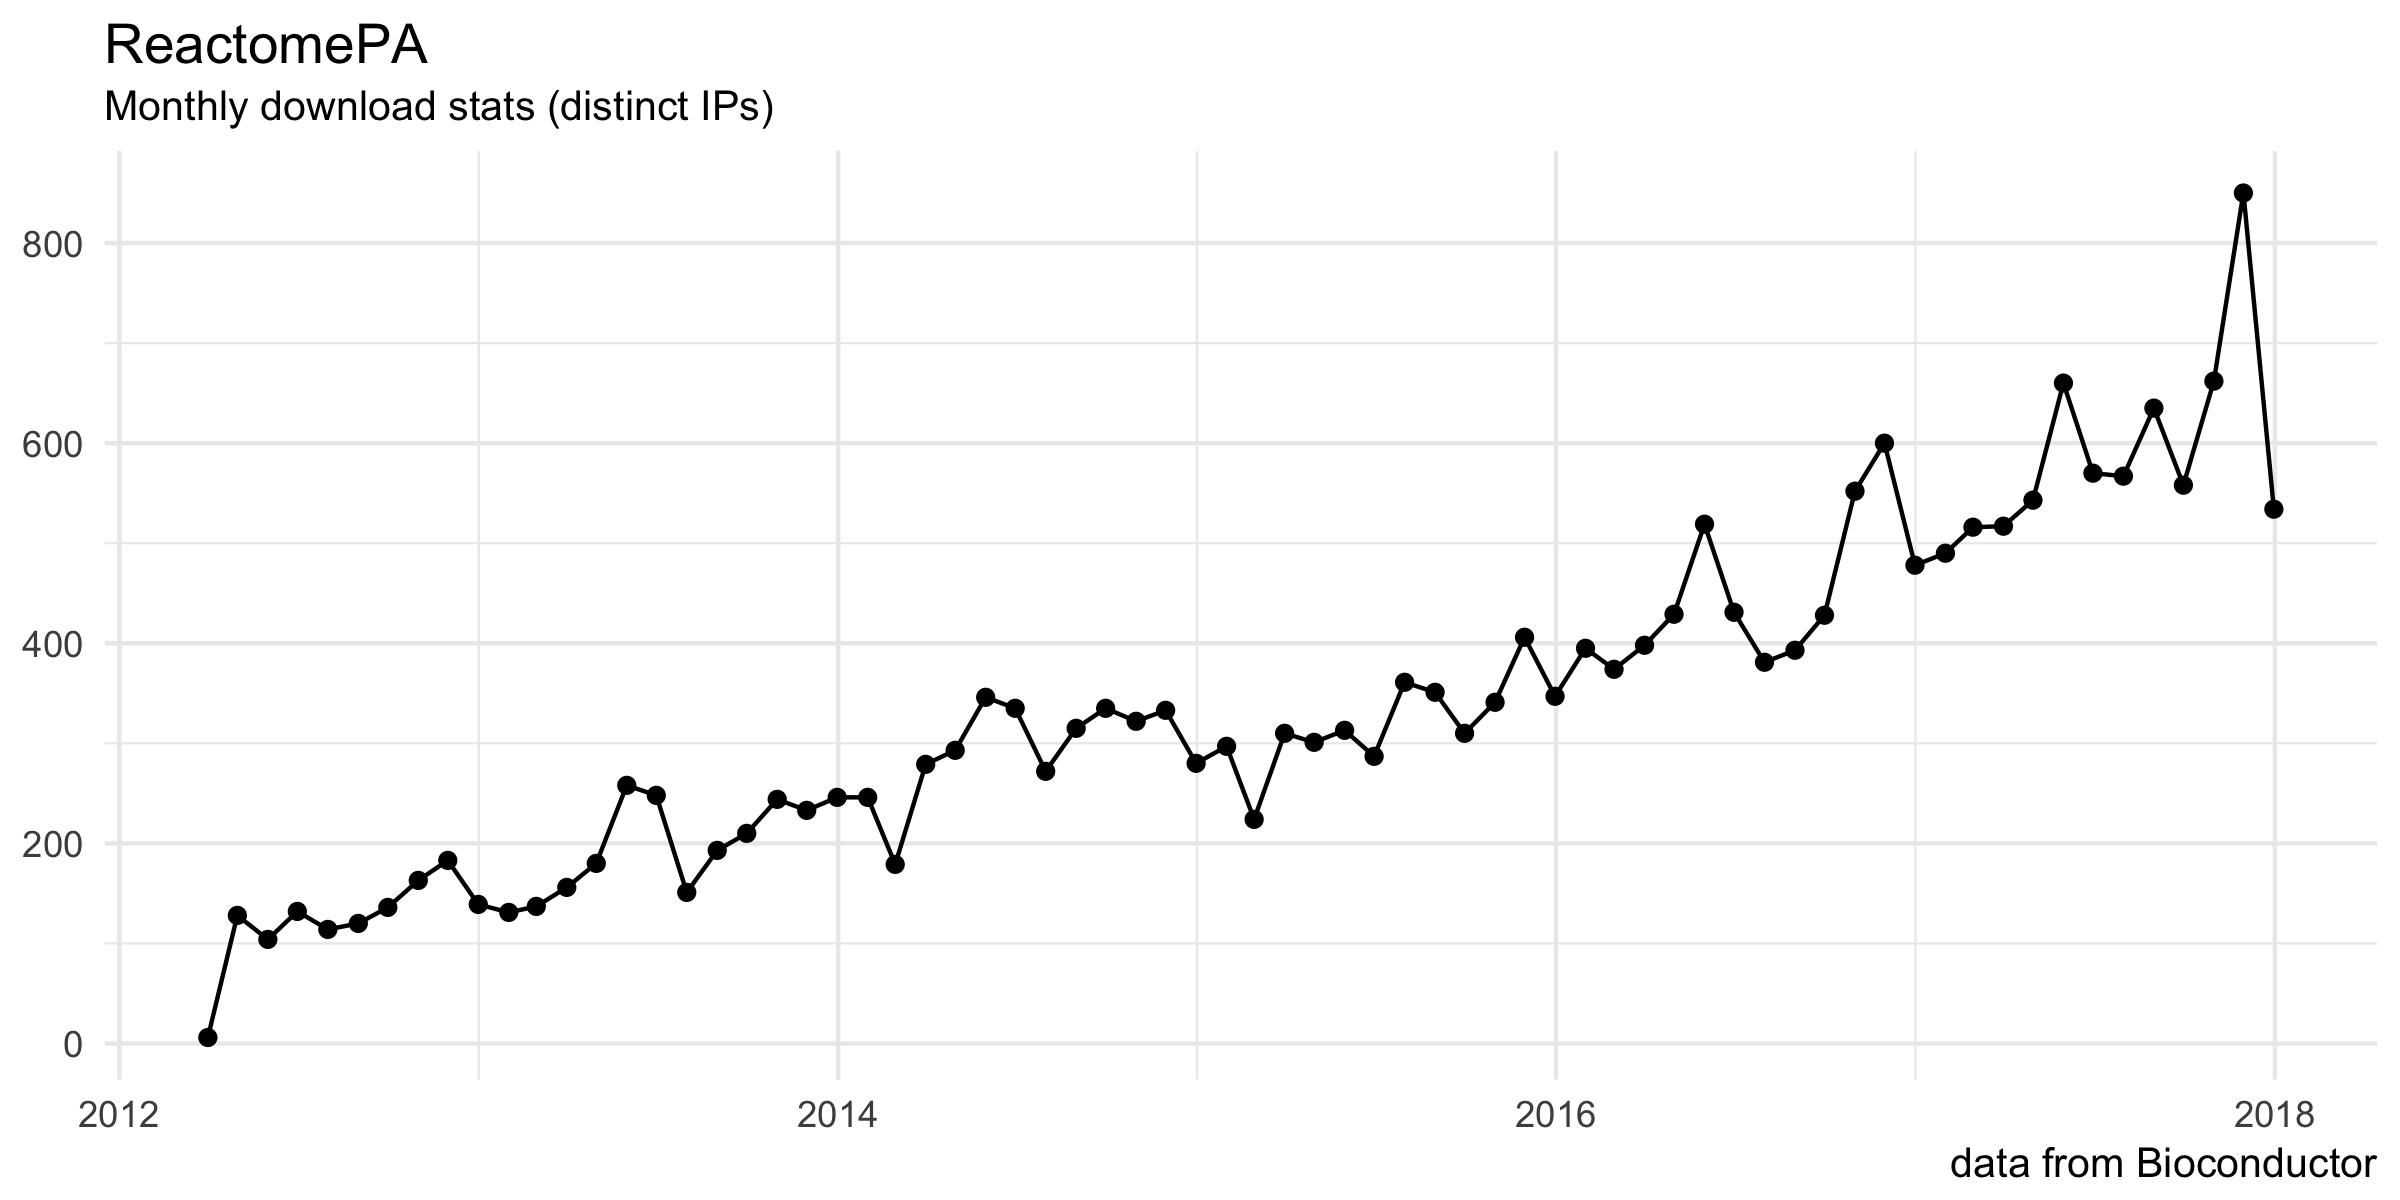
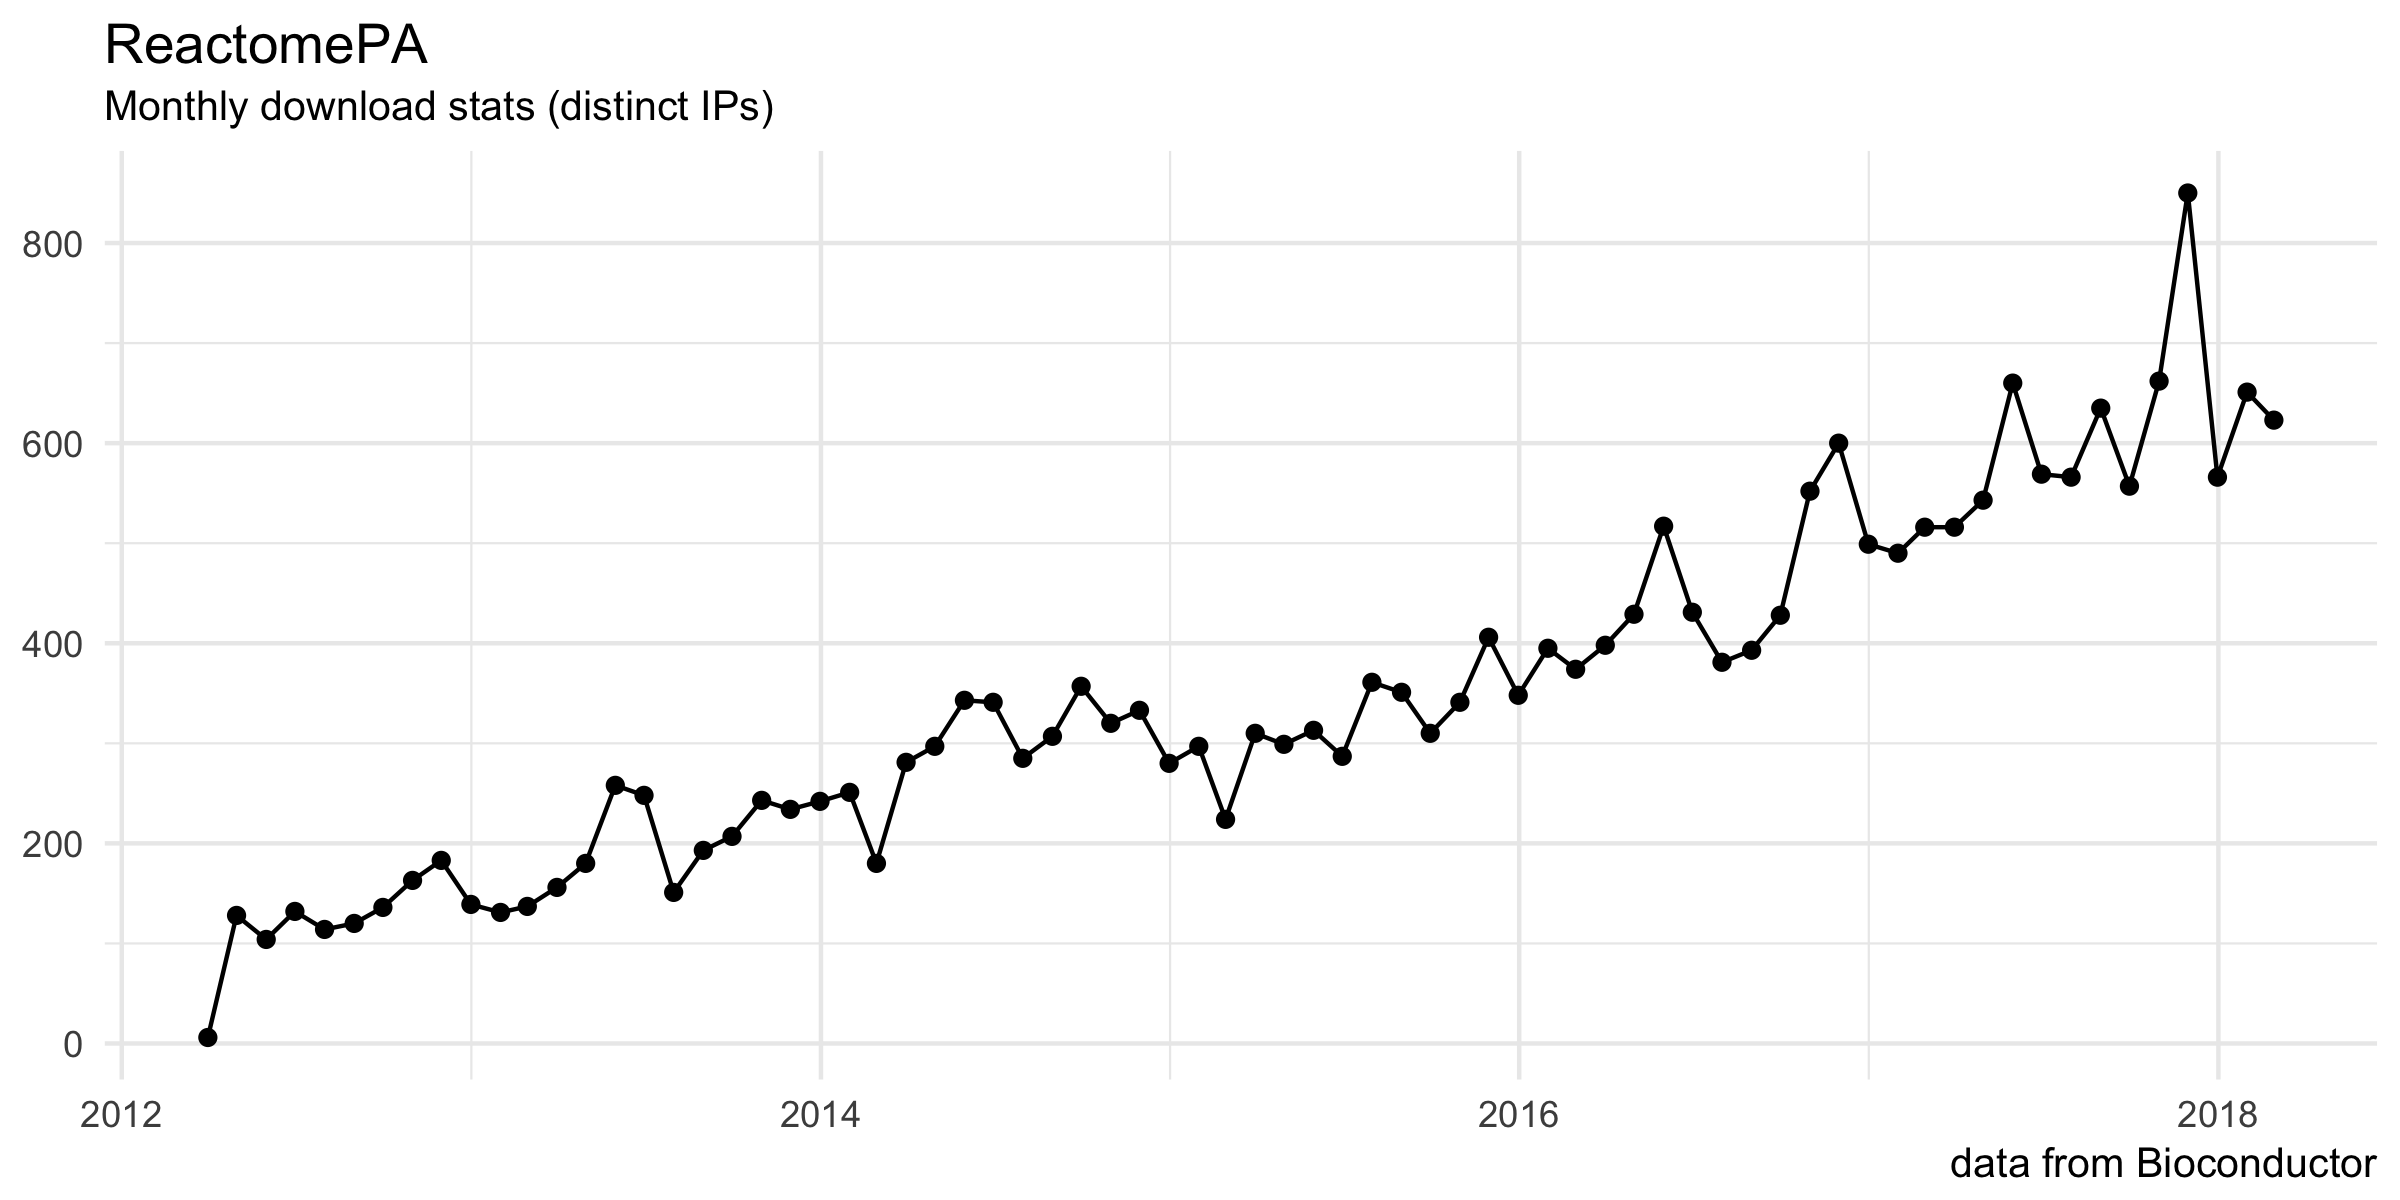
update docs

diff --git a/README.md b/README.md
@@ -1,9 +1,9 @@
 ReactomePA: Reactome Pathway Analysis
 =====================================
 
-[![releaseVersion](https://img.shields.io/badge/release%20version-1.22.0-green.svg?style=flat)](https://bioconductor.org/packages/ReactomePA) [![develVersion](https://img.shields.io/badge/devel%20version-1.23.1-green.svg?style=flat)](https://github.com/guangchuangyu/ReactomePA) [![Bioc](http://www.bioconductor.org/shields/years-in-bioc/clusterProfiler.svg)](https://www.bioconductor.org/packages/devel/bioc/html/clusterProfiler.html#since) [![total](https://img.shields.io/badge/downloads-23980/total-blue.svg?style=flat)](https://bioconductor.org/packages/stats/bioc/ReactomePA) [![month](https://img.shields.io/badge/downloads-534/month-blue.svg?style=flat)](https://bioconductor.org/packages/stats/bioc/ReactomePA)
+[![releaseVersion](https://img.shields.io/badge/release%20version-1.22.0-green.svg?style=flat)](https://bioconductor.org/packages/ReactomePA) [![develVersion](https://img.shields.io/badge/devel%20version-1.23.1-green.svg?style=flat)](https://github.com/guangchuangyu/ReactomePA) [![Bioc](http://www.bioconductor.org/shields/years-in-bioc/clusterProfiler.svg)](https://www.bioconductor.org/packages/devel/bioc/html/clusterProfiler.html#since) [![total](https://img.shields.io/badge/downloads-24923/total-blue.svg?style=flat)](https://bioconductor.org/packages/stats/bioc/ReactomePA) [![month](https://img.shields.io/badge/downloads-623/month-blue.svg?style=flat)](https://bioconductor.org/packages/stats/bioc/ReactomePA)
 
-[![Project Status: Active - The project has reached a stable, usable state and is being actively developed.](http://www.repostatus.org/badges/latest/active.svg)](http://www.repostatus.org/#active) [![codecov](https://codecov.io/gh/GuangchuangYu/ReactomePA/branch/master/graph/badge.svg)](https://codecov.io/gh/GuangchuangYu/ReactomePA/) [![Last-changedate](https://img.shields.io/badge/last%20change-2018--01--29-green.svg)](https://github.com/GuangchuangYu/ReactomePA/commits/master) [![commit](http://www.bioconductor.org/shields/commits/bioc/ReactomePA.svg)](https://www.bioconductor.org/packages/devel/bioc/html/ReactomePA.html#svn_source) [![GitHub forks](https://img.shields.io/github/forks/GuangchuangYu/ReactomePA.svg)](https://github.com/GuangchuangYu/ReactomePA/network) [![GitHub stars](https://img.shields.io/github/stars/GuangchuangYu/ReactomePA.svg)](https://github.com/GuangchuangYu/ReactomePA/stargazers)
+[![Project Status: Active - The project has reached a stable, usable state and is being actively developed.](http://www.repostatus.org/badges/latest/active.svg)](http://www.repostatus.org/#active) [![codecov](https://codecov.io/gh/GuangchuangYu/ReactomePA/branch/master/graph/badge.svg)](https://codecov.io/gh/GuangchuangYu/ReactomePA/) [![Last-changedate](https://img.shields.io/badge/last%20change-2018--03--06-green.svg)](https://github.com/GuangchuangYu/ReactomePA/commits/master) [![commit](http://www.bioconductor.org/shields/commits/bioc/ReactomePA.svg)](https://www.bioconductor.org/packages/devel/bioc/html/ReactomePA.html#svn_source) [![GitHub forks](https://img.shields.io/github/forks/GuangchuangYu/ReactomePA.svg)](https://github.com/GuangchuangYu/ReactomePA/network) [![GitHub stars](https://img.shields.io/github/stars/GuangchuangYu/ReactomePA.svg)](https://github.com/GuangchuangYu/ReactomePA/stargazers)
 
 [![platform](http://www.bioconductor.org/shields/availability/devel/ReactomePA.svg)](https://www.bioconductor.org/packages/devel/bioc/html/ReactomePA.html#archives) [![Build Status](http://www.bioconductor.org/shields/build/devel/bioc/ReactomePA.svg)](https://bioconductor.org/checkResults/devel/bioc-LATEST/ReactomePA/) [![Linux/Mac Travis Build Status](https://img.shields.io/travis/GuangchuangYu/ReactomePA/master.svg?label=Mac%20OSX%20%26%20Linux)](https://travis-ci.org/GuangchuangYu/ReactomePA) [![AppVeyor Build Status](https://img.shields.io/appveyor/ci/Guangchuangyu/ReactomePA/master.svg?label=Windows)](https://ci.appveyor.com/project/GuangchuangYu/ReactomePA)
 
@@ -29,12 +29,12 @@ Please cite the following article when using `ReactomePA`:
 
 ### Citation
 
-[![citation](https://img.shields.io/badge/cited%20by-54-green.svg?style=flat)](https://scholar.google.com.hk/scholar?oi=bibs&hl=en&cites=3311691878690959578)
+[![citation](https://img.shields.io/badge/cited%20by-59-green.svg?style=flat)](https://scholar.google.com.hk/scholar?oi=bibs&hl=en&cites=3311691878690959578)
 
 <img src="docs/images/citation.png" width="890"/>
 
 ### Download stats
 
-[![download](http://www.bioconductor.org/shields/downloads/ReactomePA.svg)](https://bioconductor.org/packages/stats/bioc/ReactomePA/) [![total](https://img.shields.io/badge/downloads-23980/total-blue.svg?style=flat)](https://bioconductor.org/packages/stats/bioc/ReactomePA) [![month](https://img.shields.io/badge/downloads-534/month-blue.svg?style=flat)](https://bioconductor.org/packages/stats/bioc/ReactomePA)
+[![download](http://www.bioconductor.org/shields/downloads/ReactomePA.svg)](https://bioconductor.org/packages/stats/bioc/ReactomePA/) [![total](https://img.shields.io/badge/downloads-24923/total-blue.svg?style=flat)](https://bioconductor.org/packages/stats/bioc/ReactomePA) [![month](https://img.shields.io/badge/downloads-623/month-blue.svg?style=flat)](https://bioconductor.org/packages/stats/bioc/ReactomePA)
 
 <img src="docs/images/dlstats.png" width="890"/>
